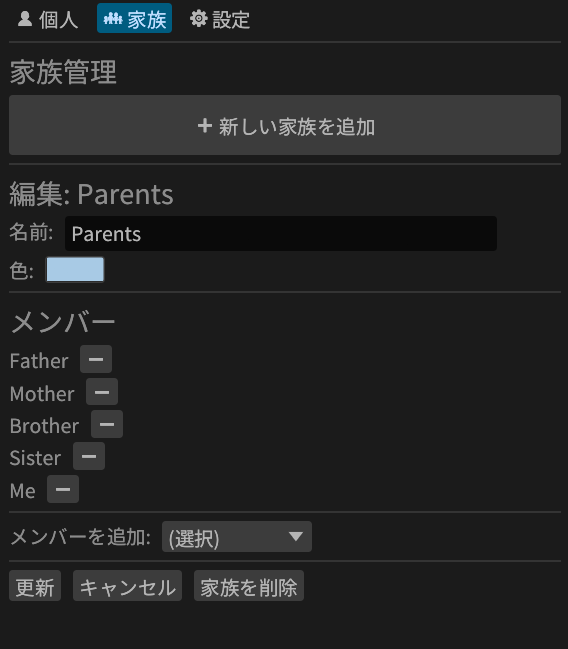
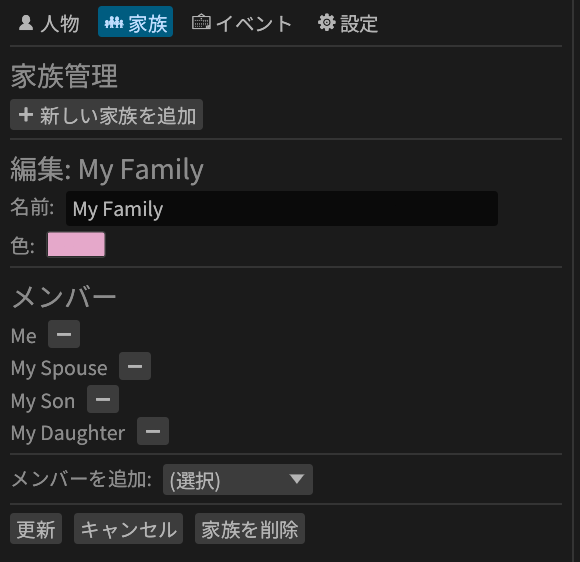
ドキュメント更新: イベント機能、対応OS、スクリーンショット
- イベント機能の説明を追加（使い方、機能説明）
- 対応OS情報を追加（Windows公式サポート）
- スクリーンショットを更新（4枚に拡張）
  - main-view.png: イベントノードを含む全体像
  - person-editor.png: 関係管理UI
  - family-groups.png: 家族グループエディタ
  - events.png: 新規イベント管理画面
- 用語統一（「個人」→「人物」）
- テストカウント更新（29→40）
- UIパネル数更新（3→4パネル）

Changed region(s): [[0.0, 0.0, 1.0, 1.0]]

diff --git a/README_ja.md b/README_ja.md
@@ -10,13 +10,16 @@ Rustとeguiで構築された、モダンでインタラクティブな家系図
 ## 📸 スクリーンショット
 
 ![メインキャンバス](screenshots/main-view.png)
-*4世代のサンプル家系図を表示したインタラクティブキャンバス*
+*4世代にわたる人物、家族、イベントを表示したインタラクティブキャンバス*
 
-![個人エディタ](screenshots/person-editor.png)
-*関係管理機能を備えた個人エディタ*
+![人物エディタ](screenshots/person-editor.png)
+*関係エディタとインライン編集機能を備えた人物管理*
 
 ![家族グループ](screenshots/family-groups.png)
-*視覚的な境界線で色分けされた家族グループ*
+*色のカスタマイズとメンバー管理機能を備えた家族グループエディタ*
+
+![イベント](screenshots/events.png)
+*タイムラインイベントと人物関係を管理するイベント機能*
 
 ## 🌟 機能
 
@@ -34,6 +37,13 @@ Rustとeguiで構築された、モダンでインタラクティブな家系図
 - **関係編集**: 関係の種類（実親、養親など）や配偶者メモをインライン編集
 - **スマート配置**: 新しい人物は現在のキャンバス表示領域の左上に追加されます
 
+### イベント管理
+- **タイムラインイベント**: 名前、日付、説明、カスタムカラーでイベントを作成
+- **イベント-人物関係**: イベントと人物を視覚的に結びつけ
+- **柔軟な矢印**: 直線、人物への矢印（→）、人物からの矢印（←）を選択可能
+- **スマート配置**: 新しいイベントは現在のキャンバス表示領域の左上に追加されます
+- **ドラッグ可能なノード**: イベントノードをキャンバス上で独立して移動可能
+
 ### 家族グループ
 - **色分けグループ**: カスタムカラーで家族をグループ化
 - **視覚的な境界**: 家族グループを色付き背景で表示
@@ -41,7 +51,7 @@ Rustとeguiで構築された、モダンでインタラクティブな家系図
 
 ### ユーザーインターフェース
 - **バイリンガル対応**: 日本語と英語のインターフェース
-- **3パネルレイアウト**: 個人、家族、設定の各タブ
+- **4パネルレイアウト**: 人物、家族、イベント、設定の各タブ
 - **グリッド整列**: オプションのグリッド表示とスナップ機能
 - **ダーク/ライトテーマ**: システムテーマに自動追従
 
@@ -49,12 +59,14 @@ Rustとeguiで構築された、モダンでインタラクティブな家系図
 - **JSON保存**: 人間が読めるJSON形式で保存・読込
 - **サンプルデータ**: `examples/sample.json` に事前入力された例示用家系図（4世代13人）
 - **位置記憶**: 手動で配置したノードの位置を保存
-- **包括的なテスト**: コア機能をカバーする29個のユニットテスト
+- **包括的なテスト**: コア機能をカバーする40個のユニットテスト
 
 ## 🚀 はじめ方
 
 ### 必要環境
 
+- **対応OS**: Windows（現在サポート）
+  - その他のプラットフォーム（macOS、Linux）も動作する可能性がありますが、公式にはテストされていません
 - [Rust](https://www.rust-lang.org/ja/tools/install) (2024 edition以降)
 - Cargo (Rustに付属)
 
@@ -74,7 +86,7 @@ cargo run --release
 ### クイックスタート
 
 1. **サンプルデータを読込**: ファイルパス欄に `examples/sample.json` と入力して「読込」をクリックすると、4世代13人の例示用家系図が表示されます
-2. **人物を追加**: 「個人」タブで「➕ 新しい個人を追加」をクリック
+2. **人物を追加**: 「人物」タブで「➕ 新しい人物を追加」をクリック
 3. **関係を編集**: 人物を選択し、関係コントロールで親、子、配偶者を追加
 4. **ノードを配置**: キャンバス上でノードをドラッグして位置調整
 5. **保存**: ファイル名を入力して「保存」をクリック
@@ -85,8 +97,8 @@ cargo run --release
 
 #### 人物の追加
 
-1. **個人**タブに移動
-2. **➕ 新しい個人を追加**をクリック
+1. **人物**タブに移動
+2. **➕ 新しい人物を追加**をクリック
 3. 詳細を入力:
    - **名前**: フルネーム
    - **性別**: 男性、女性、不明
@@ -118,6 +130,23 @@ cargo run --release
 4. ドロップダウンから家族メンバーを選択
 5. **更新**をクリックして保存
 
+#### イベントの追加
+
+1. **イベント**タブに移動
+2. **➕ 新しいイベントを追加**をクリック
+3. 詳細を入力:
+   - **名前**: イベント名
+   - **日付**: `YYYY-MM-DD`形式（任意）
+   - **説明**: イベントの詳細
+   - **色**: カスタムカラーを選択
+4. **追加**をクリックしてイベントを作成
+5. 人物をイベントにリンク:
+   - イベントを選択
+   - ドロップダウンから人物を選択
+   - 関係の種類を選択: 直線、矢印 → 人物、または矢印 ← 人物
+   - 任意でメモを追加
+   - **追加**をクリックしてリンクを作成
+
 ### キャンバスの操作
 
 - **パン**: キャンバスの空白部分をクリック＆ドラッグ
@@ -142,6 +171,7 @@ family-tree-creator/
 │   ├── ui/           # UIモジュール（トレイトベース）
 │   │   ├── persons_tab.rs
 │   │   ├── families_tab.rs
+│   │   ├── events_tab.rs
 │   │   ├── settings_tab.rs
 │   │   └── canvas.rs
 │   └── core/         # コアドメインロジック
@@ -154,7 +184,7 @@ family-tree-creator/
 └── README.md
 ```
 
-アプリケーションは**トレイトベースUIアーキテクチャ**を使用しています。各UIコンポーネント（個人タブ、家族タブ、設定、キャンバス）は`App`構造体上のトレイトとして実装され、UIコードをモジュラーで保守しやすい状態に保っています。コアドメインロジックは`core/`モジュールに分離されています。
+アプリケーションは**トレイトベースUIアーキテクチャ**を使用しています。各UIコンポーネント（人物タブ、家族タブ、イベントタブ、設定、キャンバス）は`App`構造体上のトレイトとして実装され、UIコードをモジュラーで保守しやすい状態に保っています。コアドメインロジックは`core/`モジュールに分離されています。
 
 ## 🛠 技術スタック
 

diff --git a/README.md b/README.md
@@ -10,13 +10,16 @@ English | [日本語](README_ja.md)
 ## 📸 Screenshots
 
 ![Main Canvas View](screenshots/main-view.png)
-*Interactive canvas with sample family tree showing 4 generations*
+*Interactive canvas showing persons, families, and events across 4 generations*
 
 ![Person Editor](screenshots/person-editor.png)
-*Person editor with relationship management*
+*Person management with relationship editor and inline editing*
 
 ![Family Groups](screenshots/family-groups.png)
-*Color-coded family groups with visual boundaries*
+*Family group editor with color customization and member management*
+
+![Events](screenshots/events.png)
+*Event management with timeline events and person relations*
 
 ## 🌟 Features
 
@@ -39,9 +42,16 @@ English | [日本語](README_ja.md)
 - **Visual Boundaries**: Family groups displayed with colored backgrounds
 - **Flexible Membership**: People can belong to multiple families
 
+### Event Management
+- **Timeline Events**: Create events with names, dates, descriptions, and custom colors
+- **Event-Person Relations**: Link events to people with visual connections
+- **Flexible Arrows**: Choose between lines, arrows to person (→), or arrows from person (←)
+- **Smart Positioning**: New events appear at the top-left of the current canvas view
+- **Draggable Nodes**: Move event nodes independently on the canvas
+
 ### User Interface
 - **Bilingual Support**: Japanese and English interface
-- **Three-panel Layout**: Persons, Families, and Settings tabs
+- **Four-panel Layout**: Persons, Families, Events, and Settings tabs
 - **Grid Alignment**: Optional grid display with snap-to-grid functionality
 - **Dark/Light Themes**: Follows system theme preferences
 
@@ -49,12 +59,14 @@ English | [日本語](README_ja.md)
 - **JSON Storage**: Save and load family trees in human-readable JSON format
 - **Sample Data**: Pre-populated example family tree available at `examples/sample.json` (13 people, 4 generations)
 - **Position Memory**: Manual node positions are preserved
-- **Comprehensive Tests**: 29 unit tests covering core functionality
+- **Comprehensive Tests**: 40 unit tests covering core functionality
 
 ## 🚀 Getting Started
 
 ### Prerequisites
 
+- **Operating System**: Windows (currently supported)
+  - Other platforms (macOS, Linux) may work but are not officially tested
 - [Rust](https://www.rust-lang.org/tools/install) (2024 edition or later)
 - Cargo (comes with Rust)
 
@@ -118,6 +130,23 @@ cargo run --release
 4. Select family members from the dropdown
 5. Click **Update** to save
 
+#### Adding Events
+
+1. Navigate to the **Events** tab
+2. Click **➕ Add New Event**
+3. Fill in the details:
+   - **Name**: Event name
+   - **Date**: Format `YYYY-MM-DD` (optional)
+   - **Description**: Event details
+   - **Color**: Choose a custom color
+4. Click **Add** to create the event
+5. Link people to events:
+   - Select the event
+   - Choose a person from the dropdown
+   - Select relation type: Line, Arrow → Person, or Arrow ← Person
+   - Add optional memo
+   - Click **Add** to create the link
+
 ### Canvas Controls
 
 - **Pan**: Click and drag on empty canvas space
@@ -142,6 +171,7 @@ family-tree-creator/
 │   ├── ui/           # UI modules (trait-based)
 │   │   ├── persons_tab.rs
 │   │   ├── families_tab.rs
+│   │   ├── events_tab.rs
 │   │   ├── settings_tab.rs
 │   │   └── canvas.rs
 │   └── core/         # Core domain logic
